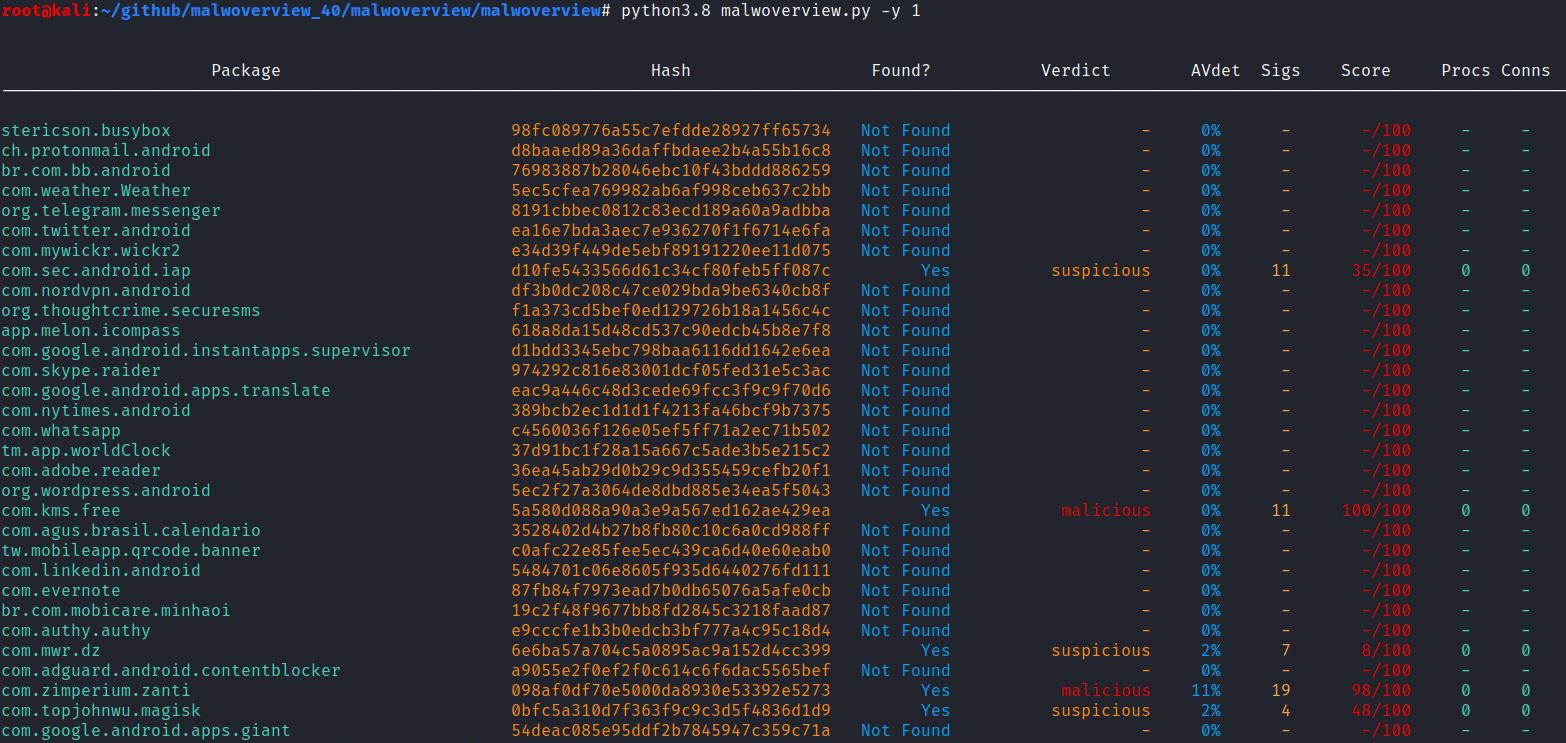
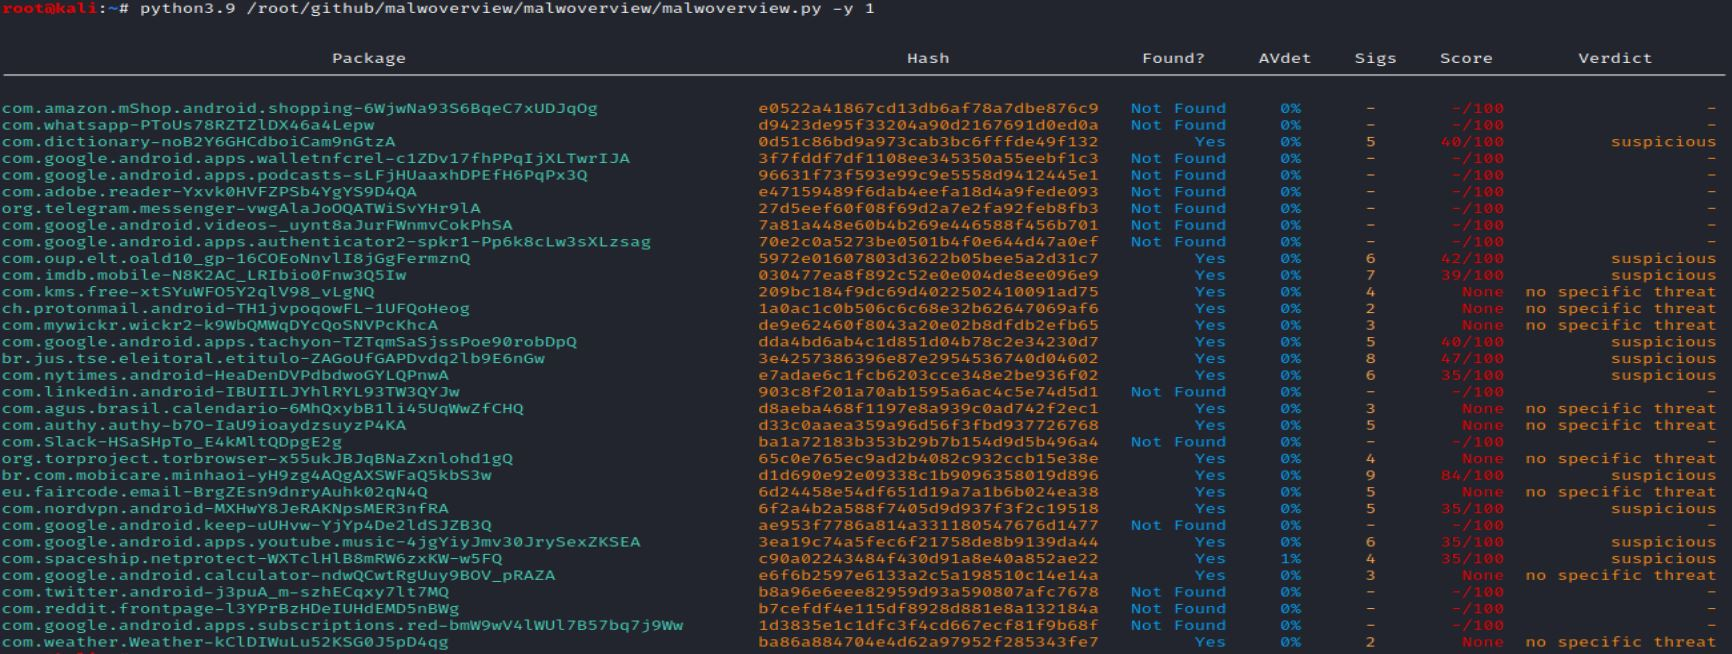
Malwoverview 4.3.4

diff --git a/malwoverview/malwoverview.py b/malwoverview/malwoverview.py
@@ -20,7 +20,7 @@
 # Corey Forman (https://github.com/digitalsleuth)
 # Christian Clauss (https://github.com/cclauss)
 
-# Malwoverview.py: version 4.3.3
+# Malwoverview.py: version 4.3.4
 
 import os
 import sys
@@ -60,7 +60,7 @@ from valhallaAPI.valhalla import ValhallaAPI
 __author__ = "Alexandre Borges"
 __copyright__ = "Copyright 2018-2021, Alexandre Borges"
 __license__ = "GNU General Public License v3.0"
-__version__ = "4.3.3"
+__version__ = "4.3.4"
 __email__ = "alexandreborges at blackstormsecurity.com"
 
 haurl = 'https://www.hybrid-analysis.com/api/v2'
@@ -7640,8 +7640,10 @@ class quickHAAndroidThread(threading.Thread):
                 print((mycolors.foreground.lightred + "%12s" % threatscore), end='')
             else:
                 print((mycolors.foreground.lightred + "%8s/100" % threatscore), end='')
-            print((mycolors.foreground.lightgreen + "%6s" % totalprocesses), end='')
-            print((mycolors.foreground.lightgreen + "%6s" % networkconnections + mycolors.reset))
+            if (verdict == "malicious"):
+                print((mycolors.foreground.lightred + "%20s" % verdict), end='')
+            else:
+                print((mycolors.foreground.yellow + "%20s" % verdict), end='\n')
         else:
             print((mycolors.foreground.lightcyan + "%-70s" % package1), end=' ')
             print((mycolors.foreground.green + "%-34s" % key1), end=' ')
@@ -7655,8 +7657,10 @@ class quickHAAndroidThread(threading.Thread):
                 print((mycolors.foreground.red + "%12s" % threatscore), end='')
             else:
                 print((mycolors.foreground.red + "%8s/100" % threatscore), end='')
-            print((mycolors.foreground.blue + "%6s" % totalprocesses), end='')
-            print((mycolors.foreground.blue + "%6s" % networkconnections + mycolors.reset))
+            if (verdict == "malicious"):
+                print((mycolors.foreground.lightred + "%20s" % verdict), end='')
+            else:
+                print((mycolors.foreground.yellow + "%20s" % verdict), end='\n')
 
 
 def checkandroidha(key, package):
@@ -7744,8 +7748,8 @@ def checkandroid(engine):
     if(engine == 1):
 
         print(mycolors.reset + "\n")
-        print("Package".center(70) + "Hash".center(34) + "Found?".center(12) + "AVdet".center(10) + "Sigs".center(5) + "Score".center(14) + "Procs".center(6) + "Conns".center(6))
-        print((160*'-').center(80))
+        print("Package".center(70) + "Hash".center(34) + "Found?".center(12) + "AVdet".center(10) + "Sigs".center(5) + "Score".center(14) + "Verdict".center(14))
+        print((162*'-').center(81))
         for key, value in dictAndroid.items():
             checkandroidha(value, key)
 
@@ -7996,7 +8000,7 @@ if __name__ == "__main__":
     bazaar = 0
     bazaararg = ''
 
-    parser = argparse.ArgumentParser(prog=None, description="Malwoverview is a first response tool for threat hunting written by Alexandre Borges. This version is 4.3.3", usage= "python malwoverview.py -c <API configuration file> -d <directory> -f <fullpath> -o <0|1> -v <0|1|2|3> -a <0|1|2|3|4|5> -x <0|1> -w <0|1> -u <url> -H <hash file> -V <filename> -D <0|1> -e <0|1|2|3|4> -A <filename> -g <job_id> -r <domain> -t <0|1> -l <1-14> -L <hash> -U <url> -S <url> -z <tags> -K <0|1|2> -j <hash> -J <hash> -P <filename> -R <PE file, IP address, domain or URL> -G <0|1|2|3|4> -y <0|1|2|3> -Y <file name> -Y <file name> -T <file name> -W <tag> -k <signature> -I <ip address> -n <1|2|3|4|5> -N <argument> -M <1-8> -m <argument> -Q <1-5> -q <argument> -E <1|2|3|4|5> -C <argument> -b <'1|2|3|4|5|6|7|8|9|10> -B <arg>")
+    parser = argparse.ArgumentParser(prog=None, description="Malwoverview is a first response tool for threat hunting written by Alexandre Borges. This version is 4.3.4", usage= "python malwoverview.py -c <API configuration file> -d <directory> -f <fullpath> -o <0|1> -v <0|1|2|3> -a <0|1|2|3|4|5> -x <0|1> -w <0|1> -u <url> -H <hash file> -V <filename> -D <0|1> -e <0|1|2|3|4> -A <filename> -g <job_id> -r <domain> -t <0|1> -l <1-14> -L <hash> -U <url> -S <url> -z <tags> -K <0|1|2> -j <hash> -J <hash> -P <filename> -R <PE file, IP address, domain or URL> -G <0|1|2|3|4> -y <0|1|2|3> -Y <file name> -Y <file name> -T <file name> -W <tag> -k <signature> -I <ip address> -n <1|2|3|4|5> -N <argument> -M <1-8> -m <argument> -Q <1-5> -q <argument> -E <1|2|3|4|5> -C <argument> -b <'1|2|3|4|5|6|7|8|9|10> -B <arg>")
     parser.add_argument('-c', '--config', dest='config', type=str, metavar = "CONFIG FILE", default = (USER_HOME_DIR + '.malwapi.conf'), help='Use a custom config file to specify API\'s')
     parser.add_argument('-d', '--directory', dest='direct',type=str, metavar = "DIRECTORY", help='Specifies the directory containing malware samples.')
     parser.add_argument('-f', '--filename', dest='fpname',type=str, metavar = "FILENAME", default = '', help='Specifies a full path to a malware sample. It returns general information about the file (any filetype)')

diff --git a/setup.py b/setup.py
@@ -11,7 +11,7 @@ with open("README.md", encoding='utf8') as readme:
 
 setup(
     name="malwoverview",
-    version="4.3.3",
+    version="4.3.4",
     author="Alexandre Borges",
     author_email="alexandreborges@blackstormsecurity.com",
     license="GNU GPL v3.0",

diff --git a/README.md b/README.md
@@ -1,6 +1,6 @@
 # Malwoverview
 
-[<img alt="GitHub release (latest by date)" src="https://img.shields.io/github/v/release/alexandreborges/malwoverview?color=Red&style=for-the-badge">](https://github.com/alexandreborges/malwoverview/releases/tag/4.3.3) [<img alt="GitHub last commit" src="https://img.shields.io/github/last-commit/alexandreborges/malwoverview?color=Yellow&style=for-the-badge">](https://github.com/alexandreborges/malwoverview/releases) [<img alt="GitHub Release Date" src="https://img.shields.io/github/release-date/alexandreborges/malwoverview?label=Release%20Date&style=for-the-badge">](https://github.com/alexandreborges/malwoverview/releases) [<img alt="GitHub" src="https://img.shields.io/github/license/alexandreborges/malwoverview?style=for-the-badge">](https://github.com/alexandreborges/malwoverview/blob/master/LICENSE) 
+[<img alt="GitHub release (latest by date)" src="https://img.shields.io/github/v/release/alexandreborges/malwoverview?color=Red&style=for-the-badge">](https://github.com/alexandreborges/malwoverview/releases/tag/4.3.4) [<img alt="GitHub last commit" src="https://img.shields.io/github/last-commit/alexandreborges/malwoverview?color=Yellow&style=for-the-badge">](https://github.com/alexandreborges/malwoverview/releases) [<img alt="GitHub Release Date" src="https://img.shields.io/github/release-date/alexandreborges/malwoverview?label=Release%20Date&style=for-the-badge">](https://github.com/alexandreborges/malwoverview/releases) [<img alt="GitHub" src="https://img.shields.io/github/license/alexandreborges/malwoverview?style=for-the-badge">](https://github.com/alexandreborges/malwoverview/blob/master/LICENSE) 
 [<img alt="GitHub stars" src="https://img.shields.io/github/stars/alexandreborges/malwoverview?logoColor=Red&style=for-the-badge">](https://github.com/alexandreborges/malwoverview/stargazers) [<img alt="Twitter Follow" src="https://img.shields.io/twitter/follow/ale_sp_brazil?color=blueviolet&style=for-the-badge">](https://twitter.com/ale_sp_brazil)
 [<img alt="PayPal" src="https://img.shields.io/badge/Donate-Paypal-brightgreen?style=for-the-badge&logo=appveyor">](https://www.paypal.com/cgi-bin/webscr?cmd=_s-xclick&hosted_button_id=M8F458EZH8UZE&source=url)
 
@@ -96,6 +96,7 @@
 ![Alt text](pictures/picture_89.jpg?raw=true "Title")
 ![Alt text](pictures/picture_90.jpg?raw=true "Title")
 ![Alt text](pictures/picture_91.jpg?raw=true "Title")
+![Alt text](pictures/picture_92.jpg?raw=true "Title")
 
       Copyright (C)  2018-2021 Alexandre Borges <alexandreborges at blackstormsecurity dot com>
 
@@ -112,7 +113,7 @@
       See GNU Public License on <http://www.gnu.org/licenses/>.
 
 
-# Current Version: 4.3.3
+# Current Version: 4.3.4
 
      Important note:  Malwoverview does NOT submit samples to Virus Total or Hybrid 
      Analysis by default. It submits only hashes, so respecting Non-Disclosure 
@@ -737,6 +738,13 @@ optional arguments:
 
 # HISTORY
 
+
+Version 4.3.4:
+
+      This version:
+
+            * Removes two columns from option -y 1 (Android package checking on HA) 
+              to offer better formatting. 
 
 Version 4.3.3:
 
